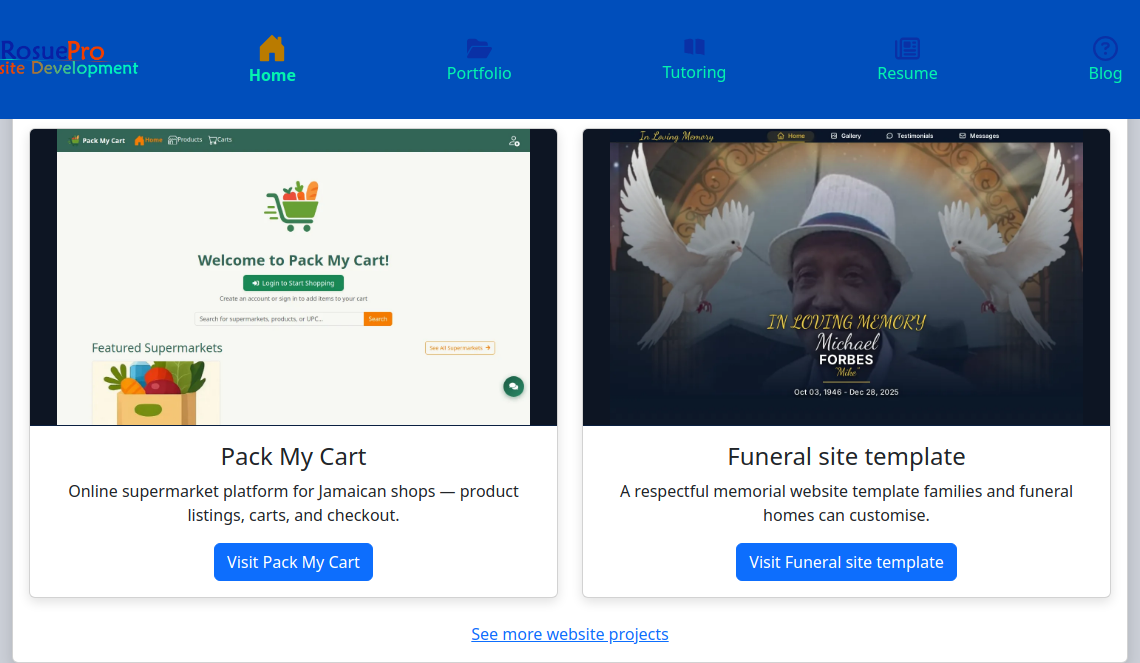
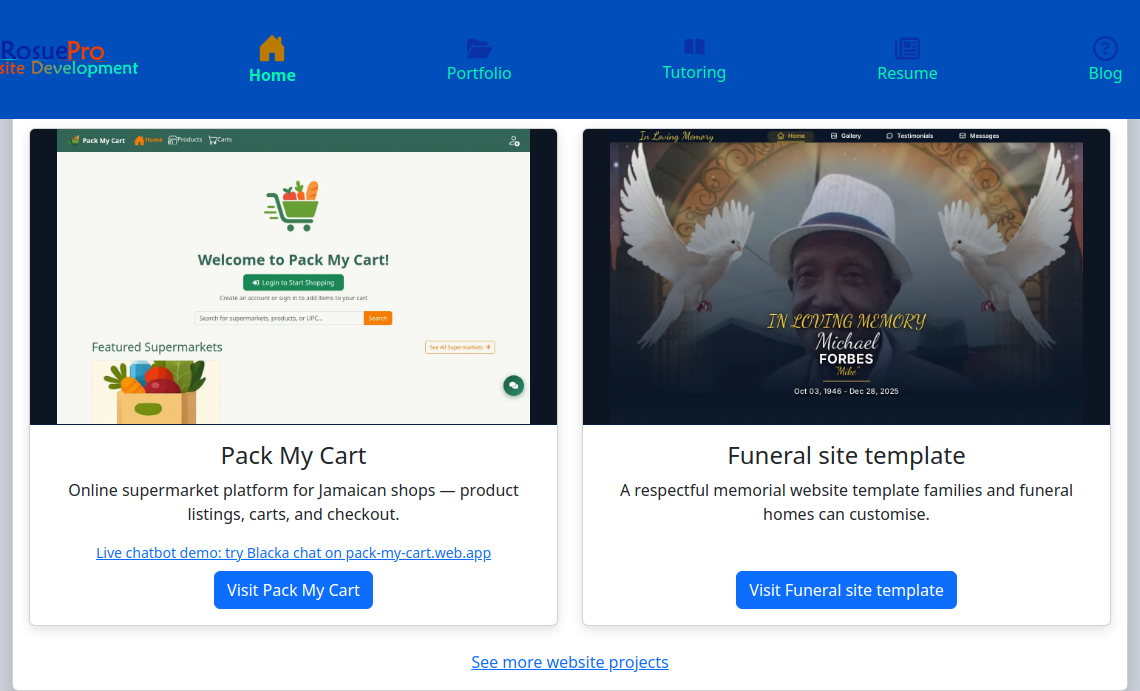
feat: lead package pricing and Pack My Cart chatbot demo line
Lead package J$45,000 setup plus J$4,000/month chatbot service on hero
and services card; clarify monthly fee is chatbot-only. Add Blacka chat
demo link on Pack My Cart portfolio card. Refresh marketing screenshots.

diff --git a/src/components/ServiceOfferings.js b/src/components/ServiceOfferings.js
@@ -1,8 +1,33 @@
 import React from 'react';
 import { Link } from 'react-router-dom';
 import { EmailWhatsAppActions } from './ContactActions';
+import {
+  LEAD_PACKAGE_CHATBOT_SERVICE_NOTE,
+  LEAD_PACKAGE_PRICE_SUMMARY,
+  LEAD_PACKAGE_TITLE,
+} from '../constants/leadPackage';
+import { WHATSAPP_DEFAULT_MESSAGE } from '../constants/whatsapp';
 
 const offers = [
+  {
+    title: LEAD_PACKAGE_TITLE,
+    leadPackage: true,
+    price: 'J$45,000',
+    unit: 'one-time setup · chatbot service J$4,000/month',
+    description:
+      'Our lead package for Jamaican small businesses: a template-based landing page plus WhatsApp chatbot setup so customers can learn about you and start a conversation 24/7.',
+    includes: [
+      'Responsive landing page with your services, details, and supplied images',
+      'WhatsApp chatbot wired to your FAQs and enquiry flow',
+      'Handoff rules so a person takes over when needed',
+    ],
+    note: `${LEAD_PACKAGE_CHATBOT_SERVICE_NOTE} Standalone landing pages without a chatbot remain available from J$25,000 — ask if you only need the page.`,
+    action: 'Enquire about this package',
+    subject: 'Landing page + WhatsApp chatbot package',
+    body:
+      'Hi RosuePro,\n\nI am interested in the landing page + WhatsApp chatbot package (J$45,000 setup + J$4,000/month chatbot service).\nBusiness name and services: \nMain questions for the chatbot: \nDo you have text, logo, and images ready? \nPreferred deadline: ',
+    whatsappMessage: WHATSAPP_DEFAULT_MESSAGE,
+  },
   {
     title: 'Website fixes',
     price: 'From J$8,000',
@@ -13,17 +38,6 @@ const offers = [
     action: 'Request a repair quote',
     subject: 'Website repair enquiry',
     body: 'Hi RosuePro,\n\nI need help with a website issue.\nWebsite URL: \nWhat is happening: \nExpected result: \nPreferred deadline: ',
-  },
-  {
-    title: 'Business landing page',
-    price: 'From J$25,000',
-    unit: 'for a template-based single page',
-    description: 'Give customers a clear place to learn about your business and contact you.',
-    includes: ['Responsive single-page layout', 'Your services, business details, and supplied images', 'Email or WhatsApp enquiry link'],
-    note: 'You supply the text, logo, and images. Delivery is agreed once content is ready. Domain, hosting, and extra features are quoted separately.',
-    action: 'Discuss a landing page',
-    subject: 'Business landing page enquiry',
-    body: 'Hi RosuePro,\n\nI would like a business landing page.\nBusiness name and services: \nDo you have text, a logo, and images ready? \nPreferred deadline: ',
   },
   {
     title: 'AI automations',
@@ -49,7 +63,7 @@ const offers = [
   },
 ];
 
-const defaultMailto = `mailto:rosuepro@gmail.com?subject=${encodeURIComponent('RosuePro enquiry')}&body=${encodeURIComponent("Hi RosuePro,\n\nI'm interested in a landing page + WhatsApp chatbot for my business.\n")}`;
+const defaultMailto = `mailto:rosuepro@gmail.com?subject=${encodeURIComponent('Landing page + WhatsApp chatbot package')}&body=${encodeURIComponent(WHATSAPP_DEFAULT_MESSAGE)}`;
 
 export default function ServiceOfferings() {
   return (
@@ -63,18 +77,24 @@ export default function ServiceOfferings() {
           <p className="lead mt-3">
             Get a professional landing page and a WhatsApp chatbot that answers common questions and captures leads — built for businesses in Kingston and across Jamaica.
           </p>
-          <p className="service-availability">Evenings &amp; Saturdays · By appointment · Jamaica time</p>
+          <p className="service-lead-price fw-semibold mt-2">{LEAD_PACKAGE_PRICE_SUMMARY}.</p>
+          <p className="small text-secondary mb-0">{LEAD_PACKAGE_CHATBOT_SERVICE_NOTE}</p>
+          <p className="service-availability mt-3">Evenings &amp; Saturdays · By appointment · Jamaica time</p>
           <EmailWhatsAppActions
             className="contact-actions d-flex flex-column flex-sm-row flex-wrap gap-2 justify-content-center mt-4"
             mailtoHref={defaultMailto}
             mailLabel="Email enquiry"
             whatsappLabel="WhatsApp enquiry"
+            whatsappMessage={WHATSAPP_DEFAULT_MESSAGE}
           />
         </div>
         <div className="row row-cols-1 row-cols-lg-3 g-4">
           {offers.map((offer) => (
             <div className="col" key={offer.title}>
-              <article className="card service-card h-100">
+              <article className={`card service-card h-100${offer.leadPackage ? ' service-card-lead' : ''}`}>
+                {offer.leadPackage ? (
+                  <div className="service-card-lead-badge text-center py-2">Lead package</div>
+                ) : null}
                 <div className="card-body p-4 d-flex flex-column">
                   <h2 className="h4">{offer.title}</h2>
                   <p className="service-price mt-3 mb-0">{offer.price}</p>
@@ -86,6 +106,7 @@ export default function ServiceOfferings() {
                     className="contact-actions d-flex flex-column gap-2 mt-auto"
                     mailtoHref={`mailto:rosuepro@gmail.com?subject=${encodeURIComponent(offer.subject)}&body=${encodeURIComponent(offer.body)}`}
                     mailLabel={offer.action}
+                    whatsappMessage={offer.whatsappMessage}
                     buttonClassEmail="btn btn-primary btn-whatsapp-pair w-100"
                     buttonClassWhatsApp="btn btn-whatsapp btn-whatsapp-pair w-100"
                   />

diff --git a/public/index.html b/public/index.html
@@ -7,7 +7,7 @@
     <meta name="theme-color" content="#000000" />
     <meta
       name="description"
-      content="Landing pages and WhatsApp chatbots for Jamaican small businesses. Website fixes, AI automations, and chatbots from RosuePro — Kingston and island-wide. Evenings and Saturdays by appointment."
+      content="Landing page + WhatsApp chatbot setup J$45,000 one-time, then J$4,000/month chatbot service for Jamaican small businesses. RosuePro — Kingston and island-wide. Evenings and Saturdays by appointment."
     />
     <link rel="apple-touch-icon" href="/logo192.png" />
     <link rel="manifest" href="/manifest.json" />
@@ -24,7 +24,7 @@
       <main>
         <section>
           <h2>Our Services</h2>
-          <ul><li>Website fixes: from J$8,000 per agreed repair</li><li>Template-based business landing page: from J$25,000</li><li>AI automations: from J$35,000 per agreed workflow</li><li>AI chatbots: from J$28,000 for a scoped website or WhatsApp bot</li><li>Java tutoring and guided debugging: J$3,500 per 60-minute online session</li></ul>
+          <ul><li>Landing page + WhatsApp chatbot setup: J$45,000 one-time, then J$4,000/month chatbot service (not website hosting)</li><li>Website fixes: from J$8,000 per agreed repair</li><li>AI automations: from J$35,000 per agreed workflow</li><li>AI chatbots: from J$28,000 for a scoped website or WhatsApp bot</li><li>Java tutoring and guided debugging: J$3,500 per 60-minute online session</li></ul>
         </section>
         <footer>
           <p>Contact us at <a href="mailto:rosuepro@gmail.com">rosuepro@gmail.com</a> or WhatsApp via the chat button on the live site.</p>

diff --git a/src/components/PortfolioShowcase.js b/src/components/PortfolioShowcase.js
@@ -4,6 +4,8 @@ const projects = [
   {
     name: 'Pack My Cart',
     description: 'Online supermarket platform for Jamaican shops — product listings, carts, and checkout.',
+    demoText: 'Live chatbot demo: try Blacka chat on pack-my-cart.web.app',
+    demoUrl: 'https://pack-my-cart.web.app/',
     url: 'https://pack-my-cart.web.app/',
     image: '/portfolio/pack-my-cart.webp',
     imageAlt: 'Pack My Cart supermarket website homepage',
@@ -42,6 +44,13 @@ export default function PortfolioShowcase({ id = 'portfolio', headingId = 'portf
                   <div className="card-body d-flex flex-column text-center">
                     <h3 className="h4 card-title">{project.name}</h3>
                     <p className="card-text flex-grow-1">{project.description}</p>
+                    {project.demoUrl ? (
+                      <p className="small mb-2">
+                        <a href={project.demoUrl} target="_blank" rel="noreferrer">
+                          {project.demoText}
+                        </a>
+                      </p>
+                    ) : null}
                     <a
                       href={project.url}
                       target="_blank"

diff --git a/src/custom-styles/generic-styles.css b/src/custom-styles/generic-styles.css
@@ -41,7 +41,10 @@ body{
 .services-intro h1 { font-weight: 750; font-size: clamp(2rem, 4vw, 3.5rem); }
 .service-eyebrow { color: #245080; font-size: 0.8rem; font-weight: 700; letter-spacing: 0.12em; }
 .service-availability { color: #205a49; font-weight: 600; }
+.service-lead-price { color: #164e94; font-size: 1.1rem; }
 .service-card { border: 1px solid #cedbec; border-radius: 1rem; box-shadow: 0 8px 24px #172b4610; }
+.service-card-lead { border-color: #164e94; box-shadow: 0 12px 32px #164e9420; }
+.service-card-lead-badge { background: #164e94; color: #fff; font-size: 0.75rem; font-weight: 700; letter-spacing: 0.08em; text-transform: uppercase; border-radius: 1rem 1rem 0 0; }
 .service-card h2 { min-height: 2.5em; font-weight: 700; }
 .service-price { font-size: 1.8rem; font-weight: 750; color: #164e94; }
 .service-next-steps { background: #fff; border-radius: 1rem; border: 1px solid #cedbec; }

diff --git a/src/constants/whatsapp.js b/src/constants/whatsapp.js
@@ -2,7 +2,7 @@
 export const WHATSAPP_NUMBER_E164 = [1876, 5667328].join('');
 
 export const WHATSAPP_DEFAULT_MESSAGE =
-  "Hi RosuePro, I'm interested in a landing page + WhatsApp chatbot for my business.";
+  "Hi RosuePro, I'm interested in the landing page + WhatsApp chatbot package (J$45,000 one-time setup, then J$4,000/month for chatbot service).\n\nBusiness name: \nWhat should the chatbot answer? \n";
 
 export function buildWhatsAppUrl(message = WHATSAPP_DEFAULT_MESSAGE) {
   return `https://wa.me/${WHATSAPP_NUMBER_E164}?text=${encodeURIComponent(message)}`;

diff --git a/src/constants/leadPackage.js b/src/constants/leadPackage.js
@@ -1,0 +1,11 @@
+export const LEAD_PACKAGE_TITLE = 'Landing page + WhatsApp chatbot setup';
+
+export const LEAD_PACKAGE_SETUP_PRICE = 'J$45,000';
+
+export const LEAD_PACKAGE_CHATBOT_SERVICE_MONTHLY = 'J$4,000/month';
+
+export const LEAD_PACKAGE_PRICE_SUMMARY =
+  `${LEAD_PACKAGE_SETUP_PRICE} one-time setup, then ${LEAD_PACKAGE_CHATBOT_SERVICE_MONTHLY} chatbot service`;
+
+export const LEAD_PACKAGE_CHATBOT_SERVICE_NOTE =
+  'The monthly fee covers ongoing chatbot service only — not website hosting, domain, or e-commerce platform fees.';
